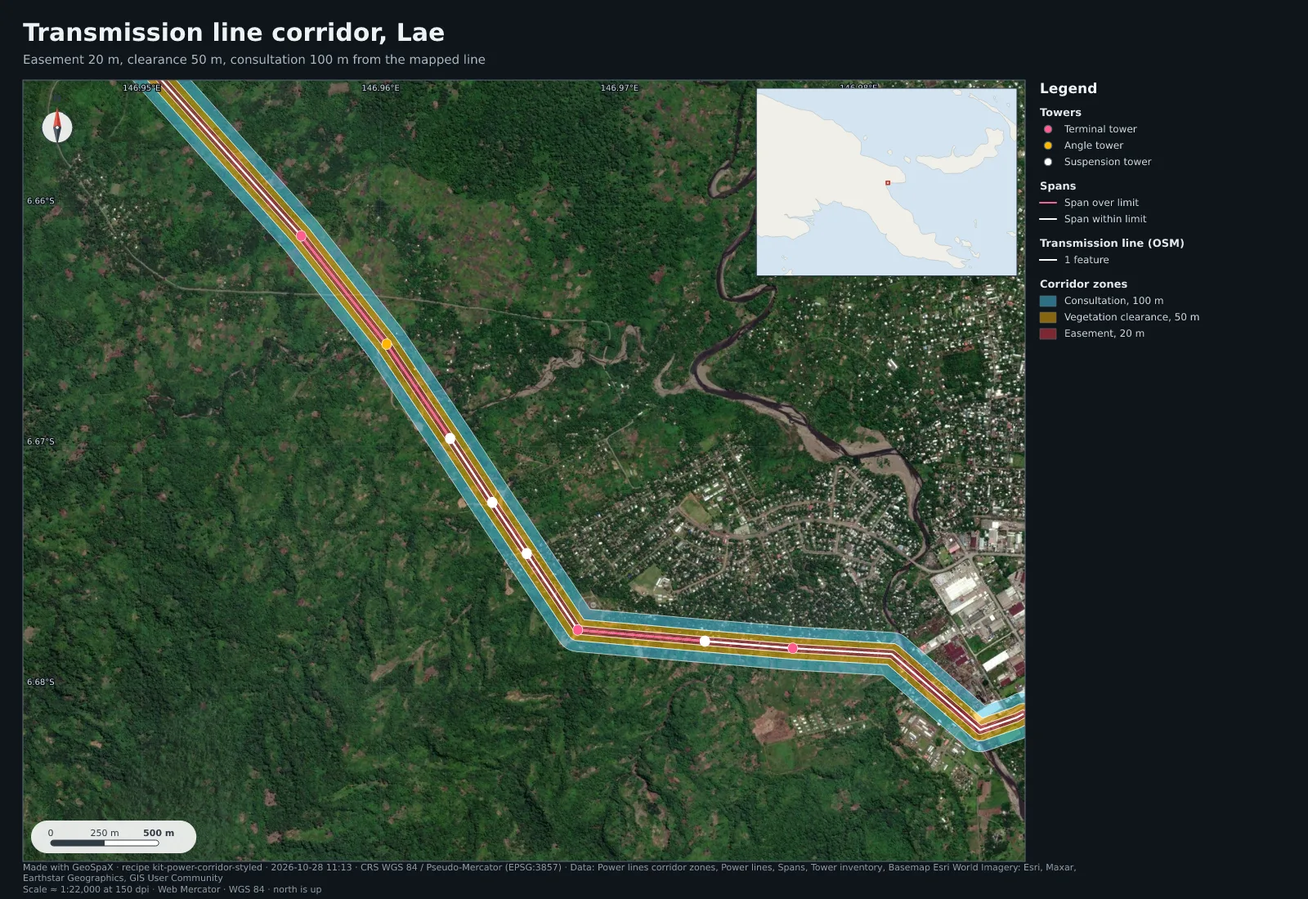
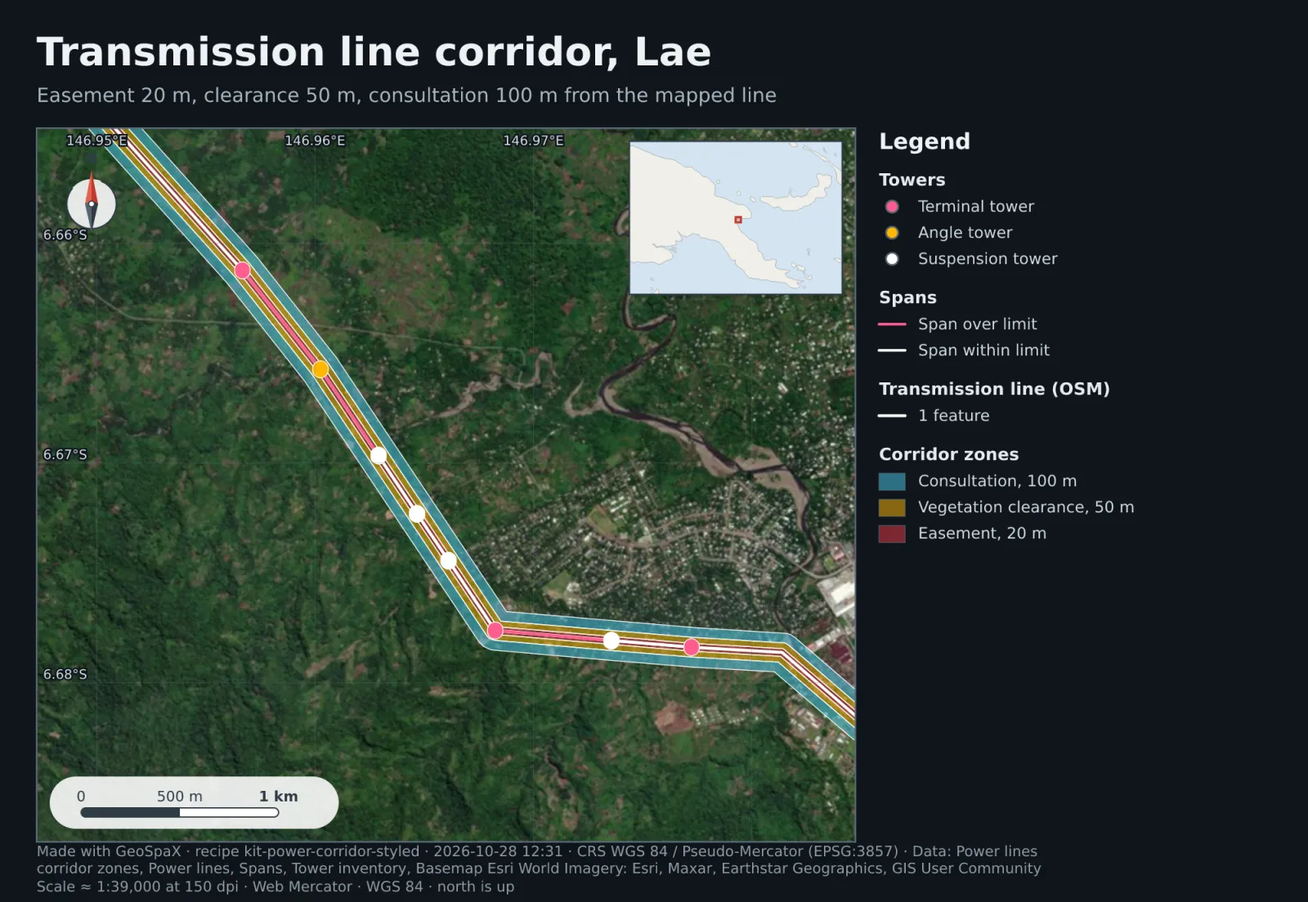
Remove the Industry plugins test-landscape gallery; re-render the industry maps for cards (larger type, muted El Niño classes)

diff --git a/site/index.html b/site/index.html
@@ -169,40 +169,18 @@
         <h2>Real places, real basemaps. <em>Print-ready maps.</em></h2>
         <p class="sub">One finished map per industry kit, on real Papua New Guinea locations, with legend, scale bar, north arrow, grid and credits. Illustrative or simulated data is marked. Click a map to enlarge it.</p>
         <div class="tours">
-          <figure class="shot" tabindex="0" data-full="/img/industry-map-survey-plan.webp?v=1"><img loading="lazy" src="/img/industry-map-survey-plan.webp?v=1" alt="Surveying map" /><figcaption><b>Surveying: Plan a lot in minutes, not days.</b> Bearings and distances from the real OpenStreetMap lot outline in Lae, a Bowditch-adjusted traverse and a PNG94 / UTM 55S grid, ready to print at 1:1,300.</figcaption></figure>
-          <figure class="shot" tabindex="0" data-full="/img/industry-map-power-corridor.webp?v=1"><img loading="lazy" src="/img/industry-map-power-corridor.webp?v=1" alt="Power lines map" /><figcaption><b>Power lines: See every easement at a glance.</b> The real OpenStreetMap transmission line near Lae on Esri imagery, with 20 m easement, 50 m clearance and 100 m consultation zones. Tower types and span checks are illustrative.</figcaption></figure>
-          <figure class="shot" tabindex="0" data-full="/img/industry-map-petroleum-leases.webp?v=1"><img loading="lazy" src="/img/industry-map-petroleum-leases.webp?v=1" alt="Petroleum and gas map" /><figcaption><b>Petroleum and gas: Spot tenure clashes before they cost you.</b> Illustrative licence blocks at Hides, Hela Province, over real OpenStreetMap villages, with overlaps flagged and a least-cost pipeline route on the real terrain.</figcaption></figure>
-          <figure class="shot" tabindex="0" data-full="/img/industry-map-mine-volumes.webp?v=1"><img loading="lazy" src="/img/industry-map-mine-volumes.webp?v=1" alt="Mining map" /><figcaption><b>Mining: Measure cut and fill from free elevation data.</b> Surface change at Ok Tedi from SRTM (2000) to the Copernicus DEM, in metres, with an illustrative lease outline.</figcaption></figure>
-          <figure class="shot" tabindex="0" data-full="/img/industry-map-harvest-planning.webp?v=1"><img loading="lazy" src="/img/industry-map-harvest-planning.webp?v=1" alt="Logging map" /><figcaption><b>Logging: Know your net harvest area before the first tree falls.</b> Illustrative coupes at Bulolo, Morobe Province, net of slopes over 30° and real OpenStreetMap stream buffers, with a least-cost haul road.</figcaption></figure>
-          <figure class="shot" tabindex="0" data-full="/img/industry-map-maritime-watch.webp?v=1"><img loading="lazy" src="/img/industry-map-maritime-watch.webp?v=1" alt="Maritime map" /><figcaption><b>Maritime: Turn AIS reports into patrol targets.</b> AIS density, vessel tracks and loitering events in the Huon Gulf off the Port of Lae. The AIS tracks are simulated.</figcaption></figure>
-          <figure class="shot" tabindex="0" data-full="/img/industry-map-aerodrome-safeguarding.webp?v=1"><img loading="lazy" src="/img/industry-map-aerodrome-safeguarding.webp?v=1" alt="Aerodromes map" /><figcaption><b>Aerodromes: Protect your airspace, obstacle by obstacle.</b> ICAO Annex 14 obstacle limitation surfaces for the real Nadzab (AYNZ) runway, with OpenStreetMap buildings checked against them. Obstacle heights are assumed.</figcaption></figure>
-          <figure class="shot" tabindex="0" data-full="/img/industry-map-delivery-routes.webp?v=1"><img loading="lazy" src="/img/industry-map-delivery-routes.webp?v=1" alt="Logistics map" /><figcaption><b>Logistics: Cut kilometres off every delivery run.</b> Drive-time bands from the Lae port depot on real OpenStreetMap roads, and the optimised order to visit each stop.</figcaption></figure>
-          <figure class="shot" tabindex="0" data-full="/img/industry-map-urban-planning.webp?v=1"><img loading="lazy" src="/img/industry-map-urban-planning.webp?v=1" alt="Urban planning map" /><figcaption><b>Urban planning: Show who is within walking distance of a park.</b> Real OpenStreetMap land use and buildings in Lae, with every home checked against a 400 m walk to green space.</figcaption></figure>
-          <figure class="shot" tabindex="0" data-full="/img/industry-map-rural-access.webp?v=1"><img loading="lazy" src="/img/industry-map-rural-access.webp?v=1" alt="Rural development map" /><figcaption><b>Rural development: Find the villages furthest from clinics and schools.</b> Real OpenStreetMap villages, clinics and schools in the Morobe highlands, graded by straight-line distance in km.</figcaption></figure>
-          <figure class="shot" tabindex="0" data-full="/img/industry-map-asset-register.webp?v=1"><img loading="lazy" src="/img/industry-map-asset-register.webp?v=1" alt="Asset management map" /><figcaption><b>Asset management: Put your highest-risk assets on the map first.</b> Real OpenStreetMap asset locations in Lae, ranked by condition and criticality, with changes since 2025. Register attributes are illustrative.</figcaption></figure>
-          <figure class="shot" tabindex="0" data-full="/img/industry-map-el-nino-drought.webp?v=1"><img loading="lazy" src="/img/industry-map-el-nino-drought.webp?v=1" alt="Climate and El Niño map" /><figcaption><b>Climate and El Niño: See drought coming, province by province.</b> CHIRPS v3 rainfall for October to December 2015 as a percentage of the 1991 to 2020 normal across Papua New Guinea, with the NOAA Oceanic Niño Index.</figcaption></figure>
-        </div>
-      </div>
-    </section>
-
-    <section id="industry" class="band">
-      <div class="wrap">
-        <p class="mono kicker">Industry plugins</p>
-        <h2>Surveying to El Niño. <em>Ready-made kits.</em></h2>
-        <p class="sub">Each kit run on the offline test landscape, in Pro mode with the dark theme. Click a map to enlarge it.</p>
-        <div class="tours">
-          <figure class="shot" tabindex="0" data-full="/img/industry-survey-plan.webp?v=3.0.7"><img loading="lazy" src="/img/industry-survey-plan.webp?v=3.0.7" alt="Surveying and cartography" /><figcaption><b>Surveying and cartography.</b> Traverse adjustment (Bowditch, 1:20,001), survey stations, bearings and distances of each lot, and a UTM grid.</figcaption></figure>
-          <figure class="shot" tabindex="0" data-full="/img/industry-power-corridor.webp?v=3.0.7"><img loading="lazy" src="/img/industry-power-corridor.webp?v=3.0.7" alt="Energy · power lines" /><figcaption><b>Energy · power lines.</b> Corridor zones along a transmission line, encroaching buildings, LiDAR clearance breaches, the tower inventory and spans.</figcaption></figure>
-          <figure class="shot" tabindex="0" data-full="/img/industry-petroleum-leases.webp?v=3.0.7"><img loading="lazy" src="/img/industry-petroleum-leases.webp?v=3.0.7" alt="Petroleum and gas" /><figcaption><b>Petroleum and gas.</b> Licence areas and their overlaps, well sites checked against protected land, and a least-cost pipeline route.</figcaption></figure>
-          <figure class="shot" tabindex="0" data-full="/img/industry-mine-volumes.webp?v=3.0.7"><img loading="lazy" src="/img/industry-mine-volumes.webp?v=3.0.7" alt="Mining" /><figcaption><b>Mining.</b> Cut and fill between two surveys (elevation change) with tenement areas, overlaps and expiry status.</figcaption></figure>
-          <figure class="shot" tabindex="0" data-full="/img/industry-harvest-planning.webp?v=3.0.7"><img loading="lazy" src="/img/industry-harvest-planning.webp?v=3.0.7" alt="Logging" /><figcaption><b>Logging.</b> Net harvestable coupe areas after stream buffers, and a least-cost haul road.</figcaption></figure>
-          <figure class="shot" tabindex="0" data-full="/img/industry-maritime-watch.webp?v=3.0.7"><img loading="lazy" src="/img/industry-maritime-watch.webp?v=3.0.7" alt="Maritime surveillance" /><figcaption><b>Maritime surveillance.</b> AIS ping density, vessel tracks, loitering events and gaps in transmission.</figcaption></figure>
-          <figure class="shot" tabindex="0" data-full="/img/industry-aerodrome-safeguarding.webp?v=3.0.7"><img loading="lazy" src="/img/industry-aerodrome-safeguarding.webp?v=3.0.7" alt="Aeronautical" /><figcaption><b>Aeronautical.</b> Obstacle limitation surfaces of a code 1 runway and the obstacles that break them.</figcaption></figure>
-          <figure class="shot" tabindex="0" data-full="/img/industry-delivery-routes.webp?v=3.0.7"><img loading="lazy" src="/img/industry-delivery-routes.webp?v=3.0.7" alt="Transport and logistics" /><figcaption><b>Transport and logistics.</b> Drive-time service areas from a depot, an optimised route and the stops in order.</figcaption></figure>
-          <figure class="shot" tabindex="0" data-full="/img/industry-urban-planning.webp?v=3.0.7"><img loading="lazy" src="/img/industry-urban-planning.webp?v=3.0.7" alt="Urban planning" /><figcaption><b>Urban planning.</b> Zoning summary, housing density and walking access to green space.</figcaption></figure>
-          <figure class="shot" tabindex="0" data-full="/img/industry-rural-access.webp?v=3.0.7"><img loading="lazy" src="/img/industry-rural-access.webp?v=3.0.7" alt="Rural planning" /><figcaption><b>Rural planning.</b> Settlement access to services, with slope and slope zones.</figcaption></figure>
-          <figure class="shot" tabindex="0" data-full="/img/industry-asset-register.webp?v=3.0.7"><img loading="lazy" src="/img/industry-asset-register.webp?v=3.0.7" alt="Asset management" /><figcaption><b>Asset management.</b> Asset age, inspection and condition risk, with alerts for what changed since the last register.</figcaption></figure>
-          <figure class="shot" tabindex="0" data-full="/img/industry-el-nino-drought.webp?v=3.0.7"><img loading="lazy" src="/img/industry-el-nino-drought.webp?v=3.0.7" alt="ENSO and El Niño" /><figcaption><b>ENSO and El Niño.</b> Rainfall as a percentage of normal, the anomaly class and drought risk, scaled by the current Oceanic Niño Index.</figcaption></figure>
+          <figure class="shot" tabindex="0" data-full="/img/industry-map-survey-plan.webp?v=2"><img loading="lazy" src="/img/industry-map-survey-plan.webp?v=2" alt="Surveying map" /><figcaption><b>Surveying: Plan a lot in minutes, not days.</b> Bearings and distances from the real OpenStreetMap lot outline in Lae, a Bowditch-adjusted traverse and a PNG94 / UTM 55S grid, ready to print at 1:1,300.</figcaption></figure>
+          <figure class="shot" tabindex="0" data-full="/img/industry-map-power-corridor.webp?v=2"><img loading="lazy" src="/img/industry-map-power-corridor.webp?v=2" alt="Power lines map" /><figcaption><b>Power lines: See every easement at a glance.</b> The real OpenStreetMap transmission line near Lae on Esri imagery, with 20 m easement, 50 m clearance and 100 m consultation zones. Tower types and span checks are illustrative.</figcaption></figure>
+          <figure class="shot" tabindex="0" data-full="/img/industry-map-petroleum-leases.webp?v=2"><img loading="lazy" src="/img/industry-map-petroleum-leases.webp?v=2" alt="Petroleum and gas map" /><figcaption><b>Petroleum and gas: Spot tenure clashes before they cost you.</b> Illustrative licence blocks at Hides, Hela Province, over real OpenStreetMap villages, with overlaps flagged and a least-cost pipeline route on the real terrain.</figcaption></figure>
+          <figure class="shot" tabindex="0" data-full="/img/industry-map-mine-volumes.webp?v=2"><img loading="lazy" src="/img/industry-map-mine-volumes.webp?v=2" alt="Mining map" /><figcaption><b>Mining: Measure cut and fill from free elevation data.</b> Surface change at Ok Tedi from SRTM (2000) to the Copernicus DEM, in metres, with an illustrative lease outline.</figcaption></figure>
+          <figure class="shot" tabindex="0" data-full="/img/industry-map-harvest-planning.webp?v=2"><img loading="lazy" src="/img/industry-map-harvest-planning.webp?v=2" alt="Logging map" /><figcaption><b>Logging: Know your net harvest area before the first tree falls.</b> Illustrative coupes at Bulolo, Morobe Province, net of slopes over 30° and real OpenStreetMap stream buffers, with a least-cost haul road.</figcaption></figure>
+          <figure class="shot" tabindex="0" data-full="/img/industry-map-maritime-watch.webp?v=2"><img loading="lazy" src="/img/industry-map-maritime-watch.webp?v=2" alt="Maritime map" /><figcaption><b>Maritime: Turn AIS reports into patrol targets.</b> AIS density, vessel tracks and loitering events in the Huon Gulf off the Port of Lae. The AIS tracks are simulated.</figcaption></figure>
+          <figure class="shot" tabindex="0" data-full="/img/industry-map-aerodrome-safeguarding.webp?v=2"><img loading="lazy" src="/img/industry-map-aerodrome-safeguarding.webp?v=2" alt="Aerodromes map" /><figcaption><b>Aerodromes: Protect your airspace, obstacle by obstacle.</b> ICAO Annex 14 obstacle limitation surfaces for the real Nadzab (AYNZ) runway, with OpenStreetMap buildings checked against them. Obstacle heights are assumed.</figcaption></figure>
+          <figure class="shot" tabindex="0" data-full="/img/industry-map-delivery-routes.webp?v=2"><img loading="lazy" src="/img/industry-map-delivery-routes.webp?v=2" alt="Logistics map" /><figcaption><b>Logistics: Cut kilometres off every delivery run.</b> Drive-time bands from the Lae port depot on real OpenStreetMap roads, and the optimised order to visit each stop.</figcaption></figure>
+          <figure class="shot" tabindex="0" data-full="/img/industry-map-urban-planning.webp?v=2"><img loading="lazy" src="/img/industry-map-urban-planning.webp?v=2" alt="Urban planning map" /><figcaption><b>Urban planning: Show who is within walking distance of a park.</b> Real OpenStreetMap land use and buildings in Lae, with every home checked against a 400 m walk to green space.</figcaption></figure>
+          <figure class="shot" tabindex="0" data-full="/img/industry-map-rural-access.webp?v=2"><img loading="lazy" src="/img/industry-map-rural-access.webp?v=2" alt="Rural development map" /><figcaption><b>Rural development: Find the villages furthest from clinics and schools.</b> Real OpenStreetMap villages, clinics and schools in the Morobe highlands, graded by straight-line distance in km.</figcaption></figure>
+          <figure class="shot" tabindex="0" data-full="/img/industry-map-asset-register.webp?v=2"><img loading="lazy" src="/img/industry-map-asset-register.webp?v=2" alt="Asset management map" /><figcaption><b>Asset management: Put your highest-risk assets on the map first.</b> Real OpenStreetMap asset locations in Lae, ranked by condition and criticality, with changes since 2025. Register attributes are illustrative.</figcaption></figure>
+          <figure class="shot" tabindex="0" data-full="/img/industry-map-el-nino-drought.webp?v=2"><img loading="lazy" src="/img/industry-map-el-nino-drought.webp?v=2" alt="Climate and El Niño map" /><figcaption><b>Climate and El Niño: See drought coming, province by province.</b> CHIRPS v3 rainfall for October to December 2015 as a percentage of the 1991 to 2020 normal across Papua New Guinea, with the NOAA Oceanic Niño Index.</figcaption></figure>
         </div>
       </div>
     </section>

diff --git a/plugins/gsx/src/industry/enso.ts b/plugins/gsx/src/industry/enso.ts
@@ -146,10 +146,10 @@ export const ENSO_TOOLS: Tool[] = [
         if (Number.isFinite(p[i])) { counts[br.filter((x) => p[i] >= x).length]++; k++; sum += p[i]; }
       }
       if (!k) throw new Error('No cells with both values');
-      const labels = ['Very much below normal (under 50 %)', 'Below normal (50 to 80 %)', 'Near normal (80 to 120 %)', 'Above normal (120 to 150 %)', 'Very much above normal (over 150 %)'];
+      const labels = ['Under 50 % (severe deficit)', '50 to 80 % (below normal)', '80 to 120 % (near normal)', '120 to 150 % (above normal)', 'Over 150 % (well above)'];
       return {
         message: `Mean ${(sum / k).toFixed(0)} % of normal; ${((counts[0] + counts[1]) / k * 100).toFixed(1)} % of the area below 80 %`,
-        rasters: [{ name: 'Rainfall (% of normal)', like: o, data: p, units: '%', description: 'Observed rainfall as a percentage of the normal' }, classify(o, 'Rainfall anomaly class', p, br, labels, ['#8c510a', '#d8b365', '#f5f5f5', '#5ab4ac', '#01665e'], 'Rainfall percent of normal in five classes')],
+        rasters: [{ name: 'Rainfall (% of normal)', like: o, data: p, units: '%', description: 'Observed rainfall as a percentage of the normal' }, classify(o, 'Rainfall anomaly class', p, br, labels, ['#8c510a', '#d8b365', '#6f7a84', '#5ab4ac', '#01665e'], 'Rainfall percent of normal in five classes')],
         table: labels.map((l, i) => [l, `${(counts[i] / k * 100).toFixed(1)} %`] as [string, string]),
       };
     },
@@ -211,7 +211,7 @@ export const ENSO_TOOLS: Tool[] = [
       if (!k) throw new Error('The raster has no values');
       return {
         message: `${((cnt[0] + cnt[1]) / k * 100).toFixed(1)} % of the area is likely drier than the median`,
-        rasters: [classify(g, 'Seasonal outlook', p, br, labels, ['#8c510a', '#d8b365', '#f5f5f5', '#5ab4ac', '#01665e'], 'Chance of above-median rainfall, in classes')],
+        rasters: [classify(g, 'Seasonal outlook', p, br, labels, ['#8c510a', '#d8b365', '#6f7a84', '#5ab4ac', '#01665e'], 'Chance of above-median rainfall, in classes')],
         table: labels.map((l, i) => [l, `${(cnt[i] / k * 100).toFixed(1)} %`] as [string, string]),
       };
     },

diff --git a/scripts/make-industry-maps.py b/scripts/make-industry-maps.py
@@ -73,7 +73,7 @@ SPEC = {
     "asset-register": ({"assets": L("lae-assets-2026"), "installed_field": "installed", "inspected_field": "inspected", "condition_field": "condition", "criticality_field": "criticality", "before": L("lae-assets-2025"), "id_field": "id"},
                        {"basemap": "esri-dark", "title": "Asset risk and inspections, Lae", "subtitle": "Locations from OpenStreetMap; register attributes are illustrative"}),
     "el-nino-drought": ({"area": L("png-mainland"), "observed": R("chirps-ond-2015"), "normal": R("chirps-ond-normal-1991-2020")},
-                        {"basemap": "esri-dark", "title": "El Niño 2015: October to December rainfall, Papua New Guinea", "subtitle": "CHIRPS v3 percent of the 1991 to 2020 normal, with NOAA ONI"}),
+                        {"basemap": "esri-dark", "title": "El Niño 2015: Oct to Dec rainfall, PNG", "subtitle": "CHIRPS v3 percent of the 1991 to 2020 normal, with NOAA ONI"}),
 }
 
 
@@ -102,9 +102,9 @@ def S(color, opacity=0.9, width=None, size=None, labels=None, outline=None, fill
 YN = lambda yes, no, ty, tn: [(1, yes, ty), (0, no, tn)]
 # kit: (layers bottom to top as (id fragment, style or None to keep), extra export.map params)
 STYLE = {
-    "survey-plan": ([("grid-epsg", S("#5b6976", 0.7, width=0.6, labels={"field": "label", "size": 9})),
-                     ("lot-bearings", S("#ffd166", 1, width=2.6, labels={"field": "bearing", "field2": "distance_m", "suffix2": " m", "size": 11, "font": "bold", "overlap": True, "placement": "point"})),
-                     ("traverse-stations", S("#ffffff", 1, size=6, labels={"field": "station", "size": 10}))],
+    "survey-plan": ([("grid-epsg", S("#5b6976", 0.7, width=0.6, labels={"field": "label", "size": 7})),
+                     ("lot-bearings", S("#ffd166", 1, width=2.6, labels={"field": "bearing", "field2": "distance_m", "suffix2": " m", "size": 8, "font": "bold", "overlap": True, "placement": "point"})),
+                     ("traverse-stations", S("#ffffff", 1, size=6, labels={"field": "station", "size": 9}))],
                     {"extent": [147.00095, -6.72820, 147.00330, -6.72650], "exact": True, "rasters": []}),
     "power-corridor": ([("corridor-zones", U("zone", [("consultation", "#4cc9f0", "Consultation, 100 m"), ("clearance", "#ffb703", "Vegetation clearance, 50 m"), ("easement", "#e63946", "Easement, 20 m")], "", 0.5)),
                         ("@power-lines.geojson", S("#ffffff", 1, width=1.8)),
@@ -136,7 +136,7 @@ STYLE = {
                                     "min": 0, "breaks": [1, 2, 3, 5, 10], "colors": ["#1a9850", "#91cf60", "#fee08b", "#fc8d59", "#d73027"]},
                       "labels": {"on": False}})], {"rasters": []}),
     "mine-volumes": ([("tenure-check", S("#ffffff", 1, outline={"color": "#ffffff", "width": 2}, fill=False))], {"rasters": ["elevation-change"]}),
-    "el-nino-drought": ([("@png-mainland.geojson", S("#ffffff", 1, outline={"color": "#ffffff", "width": 1.5}, fill=False))], {"rasters": ["rainfall-anomaly-class"]}),
+    "el-nino-drought": ([], {"rasters": ["rainfall-anomaly-class"]}),
     "asset-register": ([("asset-register", U("risk_class", [("high", "#e63946", "High risk"), ("medium", "#ffb703", "Medium risk"), ("low", "#52b788", "Low risk")], "Condition x criticality", 1, size=7)),
                         ("change-alerts", U("change", [("added", "#00e5ff", "Added since 2025"), ("changed", "#ff00ff", "Changed since 2025")], "", 1, size=12, fill=None) if False else U("change", [("added", "#00e5ff", "Added since 2025"), ("changed", "#ff00ff", "Changed since 2025")], "", 0.9, size=13))], {}),
 }
@@ -167,7 +167,7 @@ def style_pass(kit, run, look, text):
         keys = sorted((k for k in TITLES.get(kit, {}) if k in i), key=len)
         if keys:
             edit[i] = {"title": TITLES[kit][keys[-1]]}
-    w = {**look, **extra, "legend_edit": edit, "name": f"{kit}-pro-dark", "layers": ids + rasters, "size": "1600x1100", "dpi": 150, "legend_title": "Legend", "theme": "dark"}
+    w = {**look, **extra, "legend_edit": edit, "name": f"{kit}-pro-dark", "layers": ids + rasters, "size": "1000x690", "dpi": 300, "legend_title": "Legend", "theme": "dark"}
     steps = []
     if styles:
         steps.append({"id": "style", "use": "style.apply", "with": {"styles": styles, "save": False}})
@@ -198,7 +198,7 @@ try:
         m = re.search(r"(    use: export\.map\n    with: \{)(.*)\}\n", text)
         w = re.sub(r'title: ("[^"]*"|[^,}]*)', "", m.group(2)).rstrip(", ")
         extra = ", ".join(f"{k}: {json.dumps(v)}" for k, v in look.items())
-        text = text[: m.start()] + m.group(1) + w + ", " + extra + ', size: "1600x1100", dpi: 150, legend_title: "Legend", theme: dark }\n' + text[m.end():]
+        text = text[: m.start()] + m.group(1) + w + ", " + extra + ', size: "1000x690", dpi: 300, legend_title: "Legend", theme: dark }\n' + text[m.end():]
         if kit == "el-nino-drought":  # all of PNG is past dem.fetch's 120 km limit: a 1 km DEM made by the data script
             text = re.sub(r"\n  - id: dem\n    use: dem\.fetch\n(    when: [^\n]*\n)?    with: [^\n]*\n", "\n", text).replace("dem: dem", "dem: png-dem-1km")
         if kit == "petroleum-leases":  # a buried pipeline climbs steeper ground than a haul road

diff --git a/README.md b/README.md
@@ -267,59 +267,6 @@ CHIRPS v3 rainfall for October to December 2015 as a percentage of the 1991 to 2
 <p align="center"><img src="docs/assets/industry/el-nino-drought-map-pro-dark.png" alt="GeoSpaX Climate and El Niño map: CHIRPS v3 rainfall for October to December 2015 as a percentage of the 1991 to 2020 normal across Papua New Guinea, with the NOAA Oceanic Niño Index." width="900" /></p>
 
 
-## Industry plugins
-
-Each industry kit run in GeoSpaX (dark theme, Pro mode) on the offline 1 km test landscape (UTM 55S) that
-`scripts/test-domain-plugins.py` checks against known answers. Run it with `GX_SHOTS=<folder>` to make these again.
-
-**Surveying and cartography.** Traverse adjustment (Bowditch, 1:20,001), survey stations, bearings and distances of each lot, and a UTM grid.
-
-<p align="center"><img src="docs/assets/industry/survey-plan-pro-dark.png" alt="GeoSpaX Surveying and cartography: Traverse adjustment (Bowditch, 1:20,001), survey stations, bearings and distances of each lot, and a UTM grid" width="900" /></p>
-
-**Energy · power lines.** Corridor zones along a transmission line, encroaching buildings, LiDAR clearance breaches, the tower inventory and spans.
-
-<p align="center"><img src="docs/assets/industry/power-corridor-pro-dark.png" alt="GeoSpaX Energy · power lines: Corridor zones along a transmission line, encroaching buildings, LiDAR clearance breaches, the tower inventory and spans" width="900" /></p>
-
-**Petroleum and gas.** Licence areas and their overlaps, well sites checked against protected land, and a least-cost pipeline route.
-
-<p align="center"><img src="docs/assets/industry/petroleum-leases-pro-dark.png" alt="GeoSpaX Petroleum and gas: Licence areas and their overlaps, well sites checked against protected land, and a least-cost pipeline route" width="900" /></p>
-
-**Mining.** Cut and fill between two surveys (elevation change) with tenement areas, overlaps and expiry status.
-
-<p align="center"><img src="docs/assets/industry/mine-volumes-pro-dark.png" alt="GeoSpaX Mining: Cut and fill between two surveys (elevation change) with tenement areas, overlaps and expiry status" width="900" /></p>
-
-**Logging.** Net harvestable coupe areas after stream buffers, and a least-cost haul road.
-
-<p align="center"><img src="docs/assets/industry/harvest-planning-pro-dark.png" alt="GeoSpaX Logging: Net harvestable coupe areas after stream buffers, and a least-cost haul road" width="900" /></p>
-
-**Maritime surveillance.** AIS ping density, vessel tracks, loitering events and gaps in transmission.
-
-<p align="center"><img src="docs/assets/industry/maritime-watch-pro-dark.png" alt="GeoSpaX Maritime surveillance: AIS ping density, vessel tracks, loitering events and gaps in transmission" width="900" /></p>
-
-**Aeronautical.** Obstacle limitation surfaces of a code 1 runway and the obstacles that break them.
-
-<p align="center"><img src="docs/assets/industry/aerodrome-safeguarding-pro-dark.png" alt="GeoSpaX Aeronautical: Obstacle limitation surfaces of a code 1 runway and the obstacles that break them" width="900" /></p>
-
-**Transport and logistics.** Drive-time service areas from a depot, an optimised route and the stops in order.
-
-<p align="center"><img src="docs/assets/industry/delivery-routes-pro-dark.png" alt="GeoSpaX Transport and logistics: Drive-time service areas from a depot, an optimised route and the stops in order" width="900" /></p>
-
-**Urban planning.** Zoning summary, housing density and walking access to green space.
-
-<p align="center"><img src="docs/assets/industry/urban-planning-pro-dark.png" alt="GeoSpaX Urban planning: Zoning summary, housing density and walking access to green space" width="900" /></p>
-
-**Rural planning.** Settlement access to services, with slope and slope zones.
-
-<p align="center"><img src="docs/assets/industry/rural-access-pro-dark.png" alt="GeoSpaX Rural planning: Settlement access to services, with slope and slope zones" width="900" /></p>
-
-**Asset management.** Asset age, inspection and condition risk, with alerts for what changed since the last register.
-
-<p align="center"><img src="docs/assets/industry/asset-register-pro-dark.png" alt="GeoSpaX Asset management: Asset age, inspection and condition risk, with alerts for what changed since the last register" width="900" /></p>
-
-**ENSO and El Niño.** Rainfall as a percentage of normal, the anomaly class and drought risk, scaled by the current Oceanic Niño Index.
-
-<p align="center"><img src="docs/assets/industry/el-nino-drought-pro-dark.png" alt="GeoSpaX ENSO and El Niño: Rainfall as a percentage of normal, the anomaly class and drought risk, scaled by the current Oceanic Niño Index" width="900" /></p>
-
 ## Download
 
 | System | Installer |
